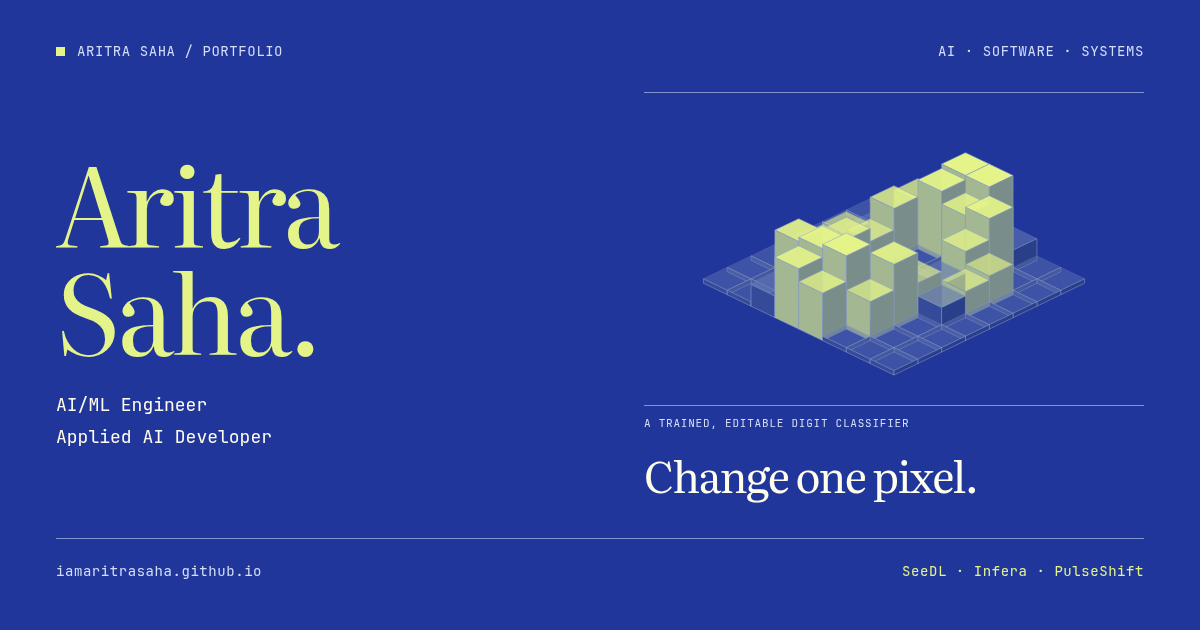
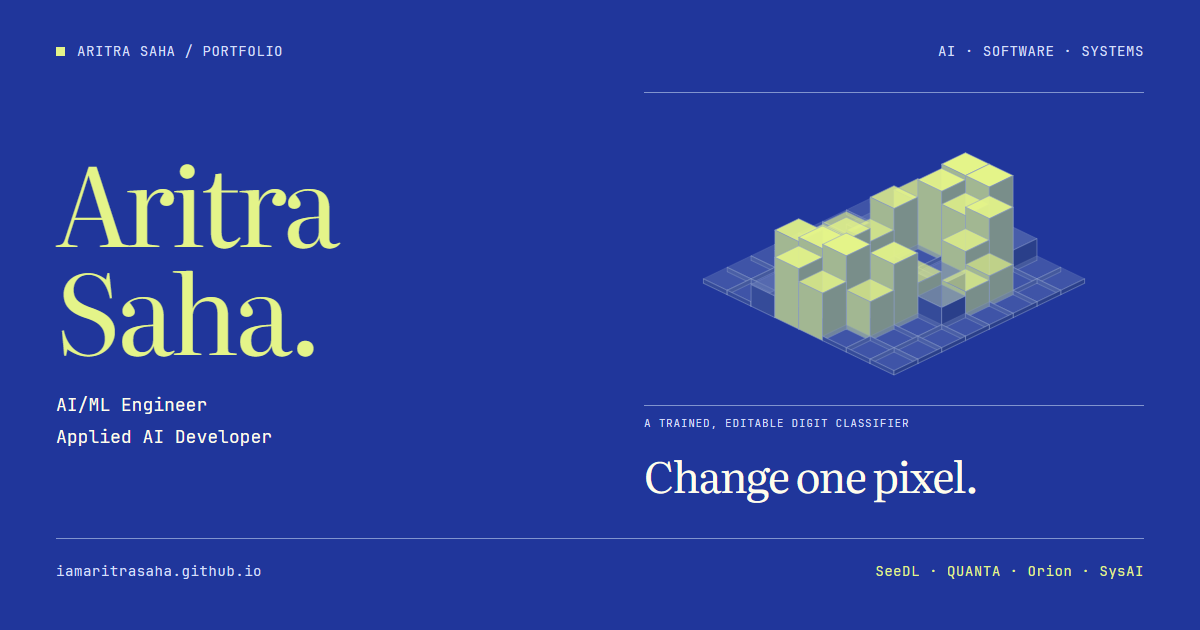
Refresh shared preview metadata for the featured project order

diff --git a/index.html b/index.html
@@ -31,7 +31,7 @@
     <meta property="og:url" content="https://iamaritrasaha.github.io/" />
     <meta
       property="og:image"
-      content="https://iamaritrasaha.github.io/assets/portfolio-social-20261105.png"
+      content="https://iamaritrasaha.github.io/assets/portfolio-social-20261106.png"
     />
     <meta property="og:image:width" content="1200" />
     <meta property="og:image:height" content="630" />
@@ -50,7 +50,7 @@
     />
     <meta
       name="twitter:image"
-      content="https://iamaritrasaha.github.io/assets/portfolio-social-20261105.png"
+      content="https://iamaritrasaha.github.io/assets/portfolio-social-20261106.png"
     />
     <meta
       name="twitter:image:alt"

diff --git a/embedded/index.html b/embedded/index.html
@@ -23,7 +23,7 @@
     />
     <meta
       property="og:image"
-      content="https://iamaritrasaha.github.io/assets/portfolio-social-20261105.png"
+      content="https://iamaritrasaha.github.io/assets/portfolio-social-20261106.png"
     />
     <meta property="og:image:width" content="1200" />
     <meta property="og:image:height" content="630" />
@@ -39,7 +39,7 @@
     />
     <meta
       name="twitter:image"
-      content="https://iamaritrasaha.github.io/assets/portfolio-social-20261105.png"
+      content="https://iamaritrasaha.github.io/assets/portfolio-social-20261106.png"
     />
     <meta
       name="twitter:image:alt"

diff --git a/explorations/index.html b/explorations/index.html
@@ -29,7 +29,7 @@
     />
     <meta
       property="og:image"
-      content="https://iamaritrasaha.github.io/assets/portfolio-social-20261105.png"
+      content="https://iamaritrasaha.github.io/assets/portfolio-social-20261106.png"
     />
     <meta property="og:image:width" content="1200" />
     <meta property="og:image:height" content="630" />
@@ -48,7 +48,7 @@
     />
     <meta
       name="twitter:image"
-      content="https://iamaritrasaha.github.io/assets/portfolio-social-20261105.png"
+      content="https://iamaritrasaha.github.io/assets/portfolio-social-20261106.png"
     />
     <meta
       name="twitter:image:alt"
